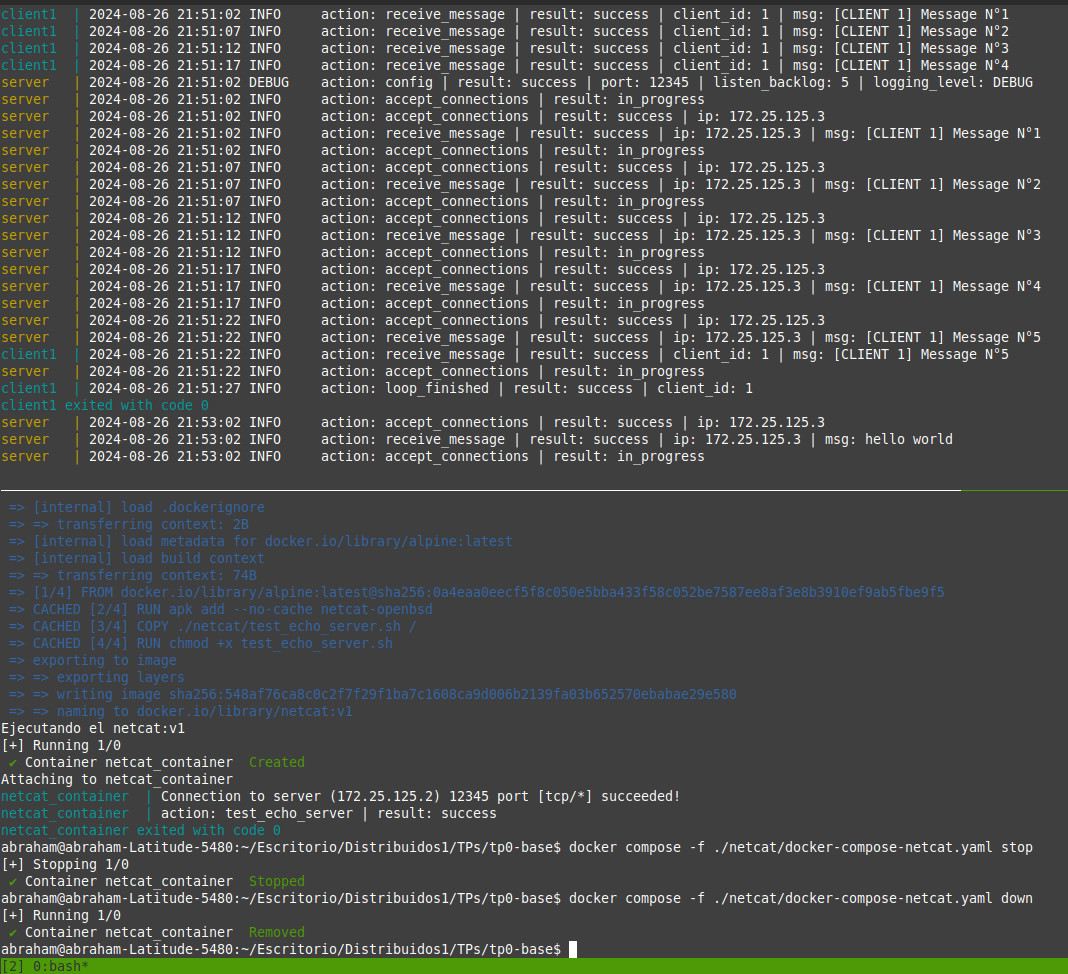
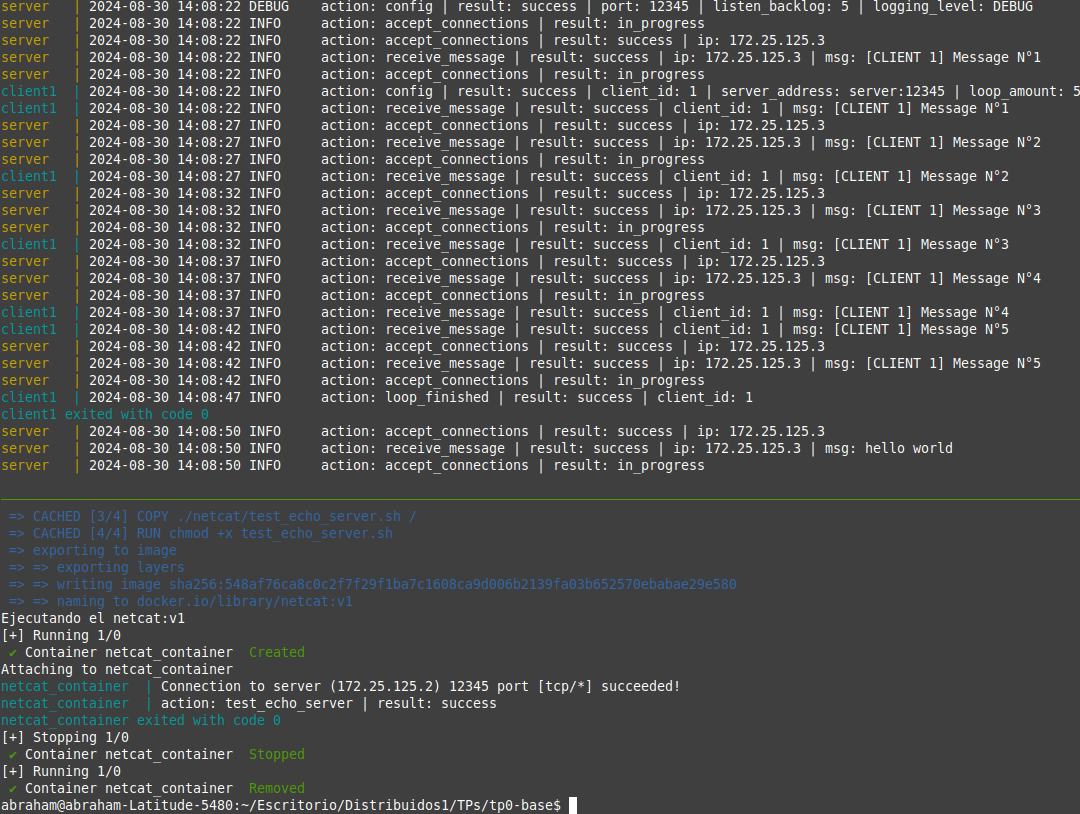
refactor in validar-echo script and update readme

diff --git a/README.md b/README.md
@@ -10,9 +10,17 @@ El script deberá ubicarse en la raíz del proyecto. Netcat no debe ser instalad
 ### Solucion: 
 Para ejecutar el script usamos los sgts comandos: 
 ```
+    make docker-compose-up
     chmod +x validar-echo-server.sh
-    ./validar-echo-server.sh
-``` 
+    make docker-compose-logs
+    ./validar-echo-server.sh  (en otra terminal)
+```
+
+### Explicacion de la implementacion: 
+1. Para poder validar el echo-server usando netcat se creo un Dockerfile que instala una distribucion del linux (alpine, especializada para docker), y luego se le copia el script **validar-echo-server.sh**, le damos permisos y se ejecuta.
+2. Luego de armar el Dockerfile hacemos el docker-compose **docker-compose-netcat.yaml** se asigna un nombre al container y se conecta a la misma red que esta el container server y el cliente (**tp0_testing_net**).
+3. Observacion: Al hacer **make docker-compose-down** la red se elimina y al hacer **make docker-compose-up**  se crear una red con una id distinta a la anterior.
+
 
 ### Ejemplo: 
 Para verificar el comportamiento correcto del echo server: 
@@ -20,11 +28,9 @@ Para verificar el comportamiento correcto del echo server:
 2. Abrimos el log para visualizar el output: ``` make docker-compose-logs ``` 
 3. Ejecutamos el script anteriormente mencionado ```./validar-echo-server.sh```   
 4. Se creara un container con el netcat instalado, se conectara al servidor y enviara el ensaje **hello world**.
-5. El server nos retorna el "hello world" y al comparar lo enviado y recibido obtendremos un **sucess**
-5. Finalmene hacemos los stop y los down: 
-``` 
-    docker compose -f ./netcat/docker-compose-netcat.yaml stop
-    docker compose -f ./netcat/docker-compose-netcat.yaml down
-    make docker-compose-down
-```   
+5. El server nos retorna el "hello world" y al compararlo con lo enviado y se printeara por log un **sucess**.
+6. Finalmente hacemos el down del make **make docker-compose-down** los stop y el down del container con netcat ya estan encapsulados en el script **validar-echo-server.sh**. 
+
+Se observa el envio del **hello world** y la verificacion del mismo exitosamente.
 <img src ="./img/ej3_part_1.png">
+
